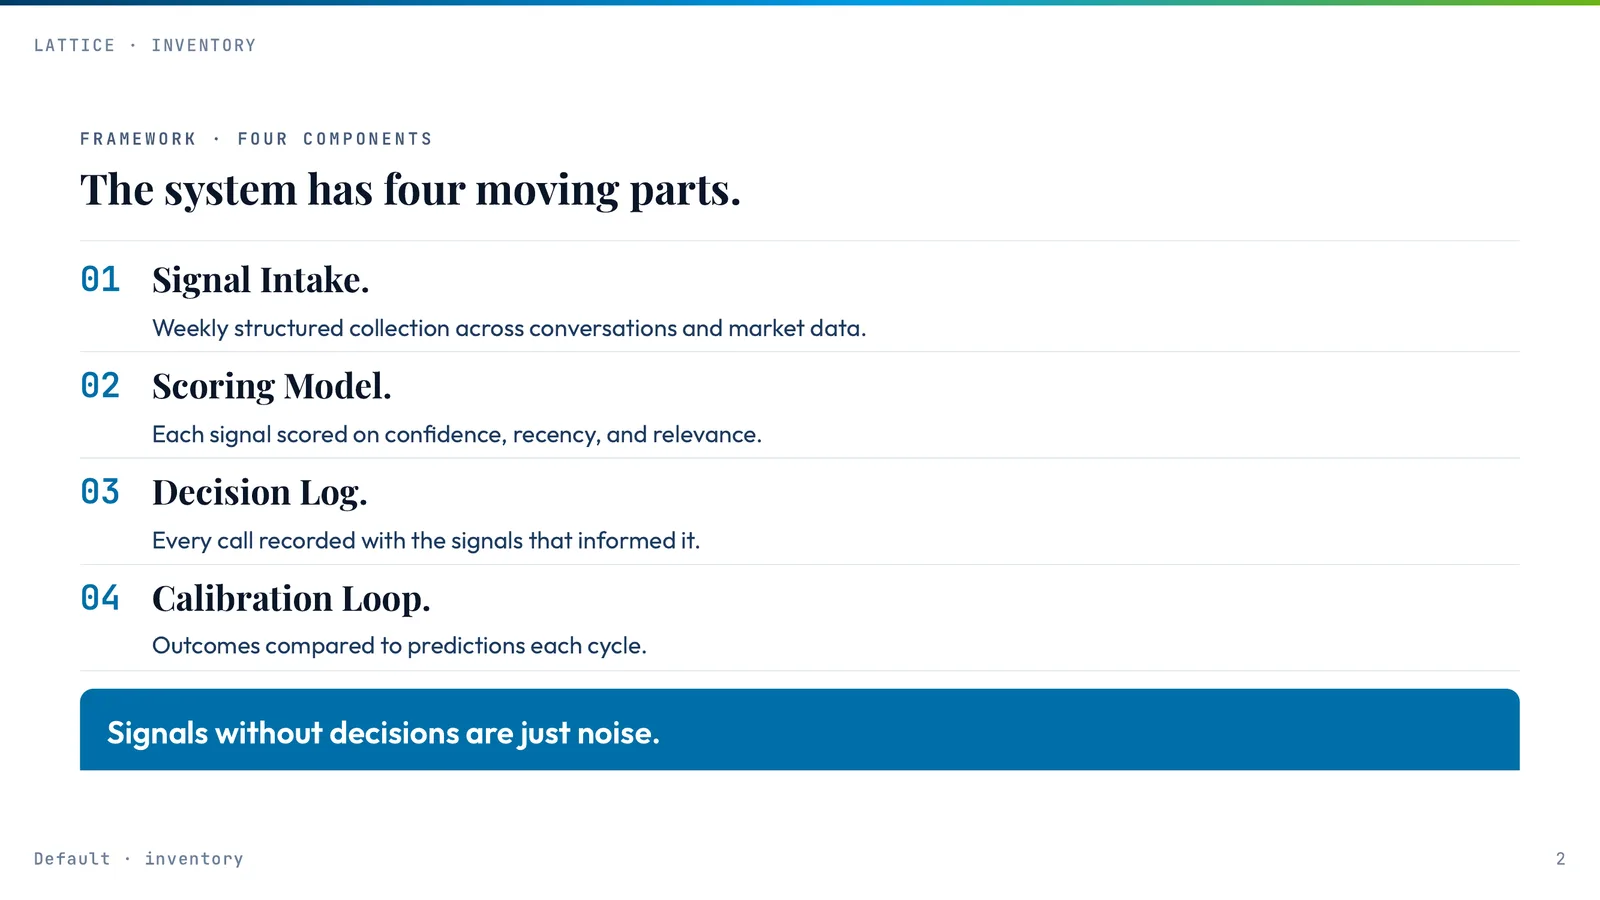
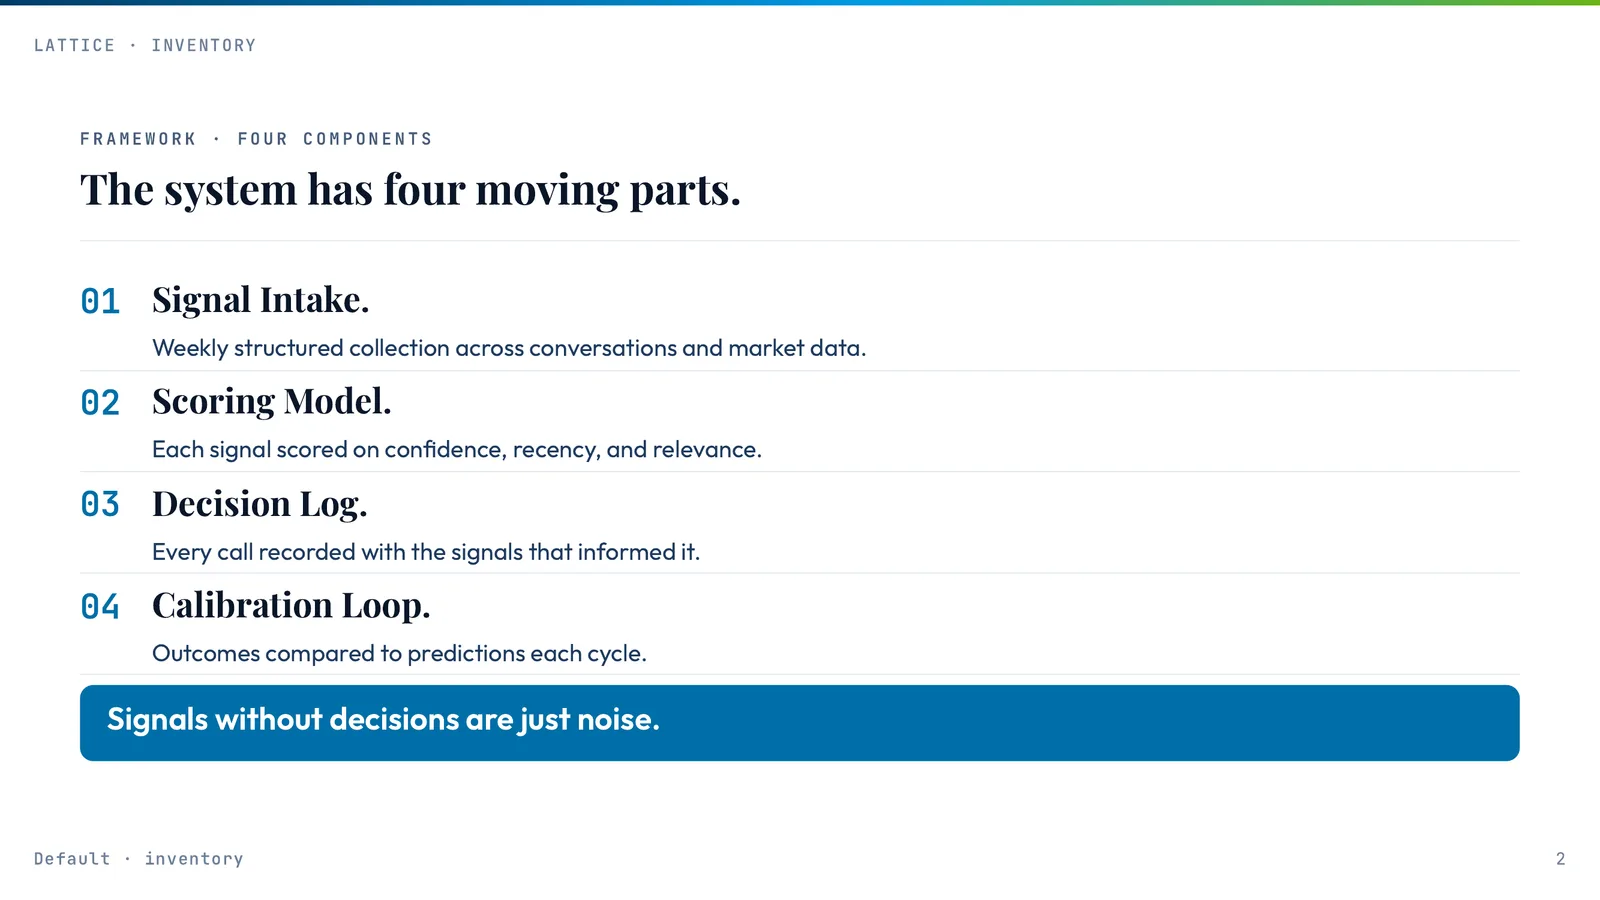
fix(inventory): safe-center the looks + tighten so they fit and degrade head-first
The inventory looks rendered correctly at 16:9 in the emulator/gallery, but clipped in
the docs live preview — which renders through the runtime's per-section `--_sec-1cqi`
stamp in a scaled iframe, where the frame geometry can starve the stage. Two robustness
fixes so the looks survive a short stage and the overflow gate sees the truth:

- `justify-content`/`align-content: safe center` on all four looks. Plain `center`
  HID overflow from the scrollHeight detector (centered overflow clips the top off-box,
  uncounted) while still clipping both ends — the exact "missing 01 / sliced band" the
  preview showed. `safe center` keeps content centered when it fits and anchors to the
  TOP when it can't, so the head (title + items) is never clipped — only ever the tail.
- Tightened the ledger row rhythm + insight band and the cards padding/gap so the
  four-item sample seats inside the bounded Form stage with margin (detector-clean in
  both themes), instead of sitting one hair over the edge.

Verified all four looks render clean, light + dark, no overflow.

Claude-Session: https://claude.ai/code/session_014d5PsFrsPshW1mbWxxTbx3

Changed region(s): [[0.0312, 0.6533, 0.9688, 0.8711], [0.0312, 0.28, 0.5312, 0.6222]]

diff --git a/lib/components/inventory/inventory/inventory.styles.css b/lib/components/inventory/inventory/inventory.styles.css
@@ -20,19 +20,19 @@
  * (no `flex:1`) so the band is never pushed past the bounded stage's clip edge — a
  * `flex:1` list would eat the column and shove the band out of view. */
 section.inventory:not(.cards):not(.timeline):not(.editorial) > .cell-stage {
-  display: flex; flex-direction: column; justify-content: center;
+  display: flex; flex-direction: column; justify-content: safe center;
 }
 section.inventory:not(.cards):not(.timeline):not(.editorial) > .cell-stage > ul {
   /* Bottom pad = the insight band's gap, parked on this no-bg ul so the band's
    * background doesn't extend up into the gap (HARD RULE #20). Row rhythm is tuned to
    * seat four rows + the band inside the bounded stage under Form, where the masthead
    * claims the height that let the legacy slide-height layout breathe. */
-  list-style: none; padding: 0 0 var(--sp-sm);
+  list-style: none; padding: 0 0 var(--sp-xs);
   display: flex; flex-direction: column; counter-reset: r;
 }
 section.inventory:not(.cards):not(.timeline):not(.editorial) > .cell-stage > ul > li {
   counter-increment: r; position: relative; list-style: none;
-  padding: var(--sp-2xs) 0 var(--sp-2xs) 5cqi;
+  padding: var(--sp-3xs) 0 var(--sp-3xs) 5cqi;
   border-bottom: 1px solid var(--border); font-size: var(--fs-body); color: var(--text-body);
 }
 section.inventory:not(.cards):not(.timeline):not(.editorial) > .cell-stage > ul > li::before {
@@ -45,7 +45,7 @@ section.inventory:not(.cards):not(.timeline):not(.editorial) > .cell-stage > ul 
 }
 section.inventory:not(.cards):not(.timeline):not(.editorial) > .cell-stage > blockquote {
   /* Top gap supplied by the ul's bottom-padding above (band has a background). */
-  padding: var(--sp-sm) var(--sp-md);
+  padding: var(--sp-xs) var(--sp-md);
   background: var(--accent); color: var(--on-accent); border-radius: var(--radius-md);
   font-size: var(--fs-message); font-weight: 600;
 }
@@ -53,25 +53,25 @@ section.inventory:not(.cards):not(.timeline):not(.editorial) > .cell-stage > blo
 /* ── Variant · CARDS — equal grid, insight as a centred pull-quote ──
  * Stage centres [card grid + pull-quote]; the grid sizes to its rows so the quote
  * stays inside the bounded stage (see ledger note on dropping `flex:1`). */
-section.inventory.cards > .cell-stage { display: flex; flex-direction: column; justify-content: center; }
+section.inventory.cards > .cell-stage { display: flex; flex-direction: column; justify-content: safe center; }
 section.inventory.cards > .cell-stage > ul {
   /* sp-sm tops (not sp-md) so a 2×2 grid + the pull-quote (incl. its closing-quote
    * ::after) seats inside the bounded stage under Form — the masthead claims the
    * height the legacy slide-height layout had. */
-  list-style: none; padding: var(--sp-sm) 0 0;
-  display: grid; grid-template-columns: 1fr 1fr; gap: var(--sp-sm);
+  list-style: none; padding: var(--sp-xs) 0 0;
+  display: grid; grid-template-columns: 1fr 1fr; gap: var(--sp-xs);
 }
 section.inventory.cards > .cell-stage > ul > li {
   list-style: none; background: var(--bg-alt); border: 1px solid var(--border);
-  border-radius: var(--radius-lg); padding: var(--sp-sm) var(--sp-md);
+  border-radius: var(--radius-lg); padding: var(--sp-xs) var(--sp-md);
   font-size: var(--fs-body); color: var(--text-body);
 }
 section.inventory.cards > .cell-stage > ul > li strong {
   display: block; font-family: var(--font-display); font-size: var(--fs-h3);
-  font-weight: 700; color: var(--text-heading); padding-bottom: var(--sp-xs);
+  font-weight: 700; color: var(--text-heading); padding-bottom: var(--sp-2xs);
 }
 section.inventory.cards > .cell-stage > blockquote {
-  padding: var(--sp-sm) 0 0; text-align: center; font-family: var(--font-display);
+  padding: var(--sp-xs) 0 0; text-align: center; font-family: var(--font-display);
   font-style: italic; font-size: var(--fs-message); color: var(--accent);
 }
 section.inventory.cards > .cell-stage > blockquote::before { content: '\201C'; }
@@ -79,7 +79,7 @@ section.inventory.cards > .cell-stage > blockquote::after  { content: '\201D'; }
 
 /* ── Variant · TIMELINE — horizontal numbered run, insight above ──
  * Stage centres [insight + horizontal run]; the run sizes to its content. */
-section.inventory.timeline > .cell-stage { display: flex; flex-direction: column; justify-content: center; }
+section.inventory.timeline > .cell-stage { display: flex; flex-direction: column; justify-content: safe center; }
 section.inventory.timeline > .cell-stage > blockquote {
   order: -1; text-align: center; font-family: var(--font-display);
   font-size: var(--fs-message); color: var(--text-muted); padding: 0 0 var(--sp-md);
@@ -115,7 +115,7 @@ section.inventory.timeline > .cell-stage > ul > li strong {
  * column. (Pre-Form this split also carried the title in the left rail; the
  * masthead now owns the title, and the split reads as insight ∥ items.) */
 section.inventory.editorial > .cell-stage {
-  display: grid; grid-template-columns: 1fr 1.25fr; column-gap: var(--sp-2xl); align-content: center;
+  display: grid; grid-template-columns: 1fr 1.25fr; column-gap: var(--sp-2xl); align-content: safe center;
 }
 section.inventory.editorial > .cell-stage > blockquote {
   grid-column: 1; align-self: center;
@@ -124,7 +124,7 @@ section.inventory.editorial > .cell-stage > blockquote {
 }
 section.inventory.editorial > .cell-stage > ul {
   grid-column: 2; list-style: none; padding: 0;
-  display: flex; flex-direction: column; justify-content: center; gap: var(--sp-md);
+  display: flex; flex-direction: column; justify-content: safe center; gap: var(--sp-md);
 }
 section.inventory.editorial > .cell-stage > ul > li {
   list-style: none; padding-left: var(--sp-md); border-left: 2px solid var(--border);